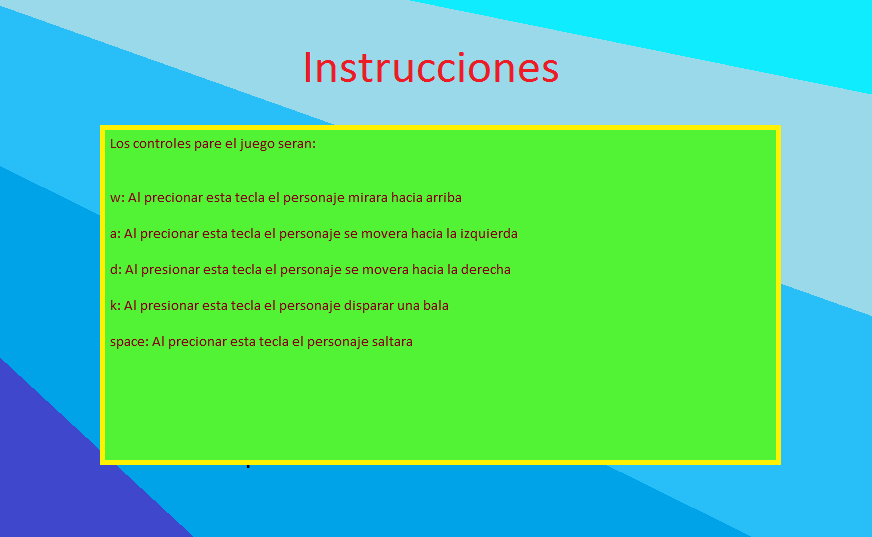
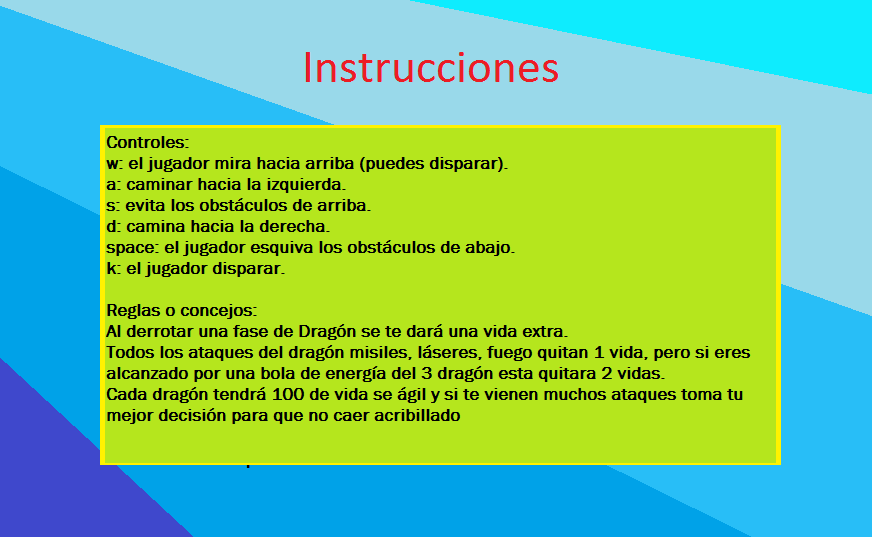
arreglos en los ataques del dragon y cada vez que vences a un dragon consigues una vida extra

diff --git a/misil.java b/misil.java
@@ -8,12 +8,31 @@ import greenfoot.*;  // (World, Actor, GreenfootImage, Greenfoot and MouseInfo)
  */
 public class misil extends Actor
 {
+    private int xVelocity=7;
+    private int xDirection=-1;
     /**
      * Act - do whatever the misil wants to do. This method is called whenever
      * the 'Act' or 'Run' button gets pressed in the environment.
      */
     public void act() 
     {
-        // Add your action code here.
+        
+        int x= getX();
+        int y= getY();
+        setLocation(x + xVelocity * xDirection,y);
+        Actor Jugador = getOneObjectAtOffset(0,0, Jugador.class); 
+        if(isAtEdge()){
+         getWorld().removeObject(this);
+        }else if(Jugador != null)
+        {
+            MyWorld world= (MyWorld)getWorld();
+            world.vidas.decrementar();
+            world.puntos.decrementar();
+            getWorld().removeObject(this);
+            if(world.vidas.ObtenerValor()<=0){
+               world.removeObject(Jugador);
+               Greenfoot.setWorld(new GameOver());
+            }
+        }
     }    
 }

diff --git a/EnergyBall.java b/EnergyBall.java
@@ -8,7 +8,7 @@ import greenfoot.*;  // (World, Actor, GreenfootImage, Greenfoot and MouseInfo)
  */
 public class EnergyBall extends Actor
 {
-    private int xVelocity=3;
+    private int xVelocity=2;
     private int xDirection=-1;
     /**
      * Act - do whatever the EnergyBall wants to do. This method is called whenever
@@ -25,10 +25,10 @@ public class EnergyBall extends Actor
         }else if(Jugador != null)
         {
             MyWorld world= (MyWorld)getWorld();
-            world.vidas.decrementar();
+            world.vidas.decrementardoble();
             world.puntos.decrementar();
             getWorld().removeObject(this);
-            if(world.vidas.ObtenerValor()==0){
+            if(world.vidas.ObtenerValor()<=0){
                world.removeObject(Jugador);
                Greenfoot.setWorld(new GameOver());
             }

diff --git a/Bullet.java b/Bullet.java
@@ -63,6 +63,7 @@ public class Bullet extends Actor
                 Level2 level2= new Level2();
                 world.addObject(level2,500,250);
                 Greenfoot.delay(60);
+                world.vidas.incrementarvida();
                 world.removeObject(level2);
                 getWorld().removeObject(this);
                 DragonFront dragonFront =new DragonFront();
@@ -75,6 +76,7 @@ public class Bullet extends Actor
                 Level3 level3= new Level3();
                 world.addObject(level3,500,250);
                 Greenfoot.delay(60);
+                world.vidas.incrementarvida();
                 world.removeObject(level3);
                 getWorld().removeObject(this);
                 DragonBody dragonBody =new DragonBody();

diff --git a/DragonBody.java b/DragonBody.java
@@ -20,14 +20,16 @@ public class DragonBody extends Actor
     
     public void shot()
     {
-             int m=Greenfoot.getRandomNumber(200+1);
-       if(m==1)
+             int misil=Greenfoot.getRandomNumber(170+1);
+             int energyBall=Greenfoot.getRandomNumber(200+1);
+       if(energyBall==100)
        {
           EnergyBall ball = new EnergyBall();
           getWorld().addObject(ball, 800 , 345);
-       }else if(m==200){
-           Lacer lacer = new Lacer();
-           getWorld().addObject(lacer, 970 , 580);
+       }
+       if(misil==100){
+           misil misi = new misil();
+           getWorld().addObject(misi, 970 , 580);
         }
          
     } 

diff --git a/PuntajeYVidas.java b/PuntajeYVidas.java
@@ -41,10 +41,20 @@ public class PuntajeYVidas extends Actor
         contador = contador+10;
         dibuja();
     }
+    
+    public void incrementarvida(){
+        contador++;
+        dibuja();
+    }
         
     public void decrementar()
     {
         contador--;
+        dibuja();
+    }
+    
+    public void decrementardoble(){
+        contador = contador - 2;
         dibuja();
     }
     

diff --git a/Lacer.java b/Lacer.java
@@ -34,7 +34,7 @@ public class Lacer extends Actor
             world.vidas.decrementar();
             world.puntos.decrementar();
             getWorld().removeObject(this);
-            if(world.vidas.ObtenerValor()==0){
+            if(world.vidas.ObtenerValor()<=0){
                world.removeObject(Jugador);
                Greenfoot.setWorld(new GameOver());
             }

diff --git a/Fire.java b/Fire.java
@@ -57,7 +57,7 @@ public class Fire extends Actor
             world.vidas.decrementar();
             world.puntos.decrementar();
             getWorld().removeObject(this);
-            if(world.vidas.ObtenerValor()==0){
+            if(world.vidas.ObtenerValor()<=0){
                world.removeObject(Jugador);
                Greenfoot.setWorld(new GameOver());
             }

diff --git a/DragonFront.java b/DragonFront.java
@@ -21,7 +21,7 @@ public class DragonFront extends Actor
     
     public void shotLacer()
     {
-             int m=Greenfoot.getRandomNumber(150+1);
+             int m=Greenfoot.getRandomNumber(120+1);
              int n=Greenfoot.getRandomNumber(2);
        if(m==1)
        {

diff --git a/DragonHead.java b/DragonHead.java
@@ -32,7 +32,7 @@ public class DragonHead extends Actor
        int m=Greenfoot.getRandomNumber(100);
        if(m==1)
        {
-          Fire fire = new Fire(2);;
+          Fire fire = new Fire(2);
           getWorld().addObject(fire, getX() , getY()-1);
        }
          

diff --git a/Level2.java b/Level2.java
@@ -15,5 +15,8 @@ public class Level2 extends LevelsSprites
     public void act() 
     {
         // Add your action code here.
+        MyWorld world= (MyWorld)getWorld();
+        world.vidas.incrementarvida();
     }    
+    
 }

diff --git a/Level1.java b/Level1.java
@@ -15,6 +15,7 @@ public class Level1 extends LevelsSprites
     public void act() 
     {
         // Add your action code here.
+        
     }    
     
 }
